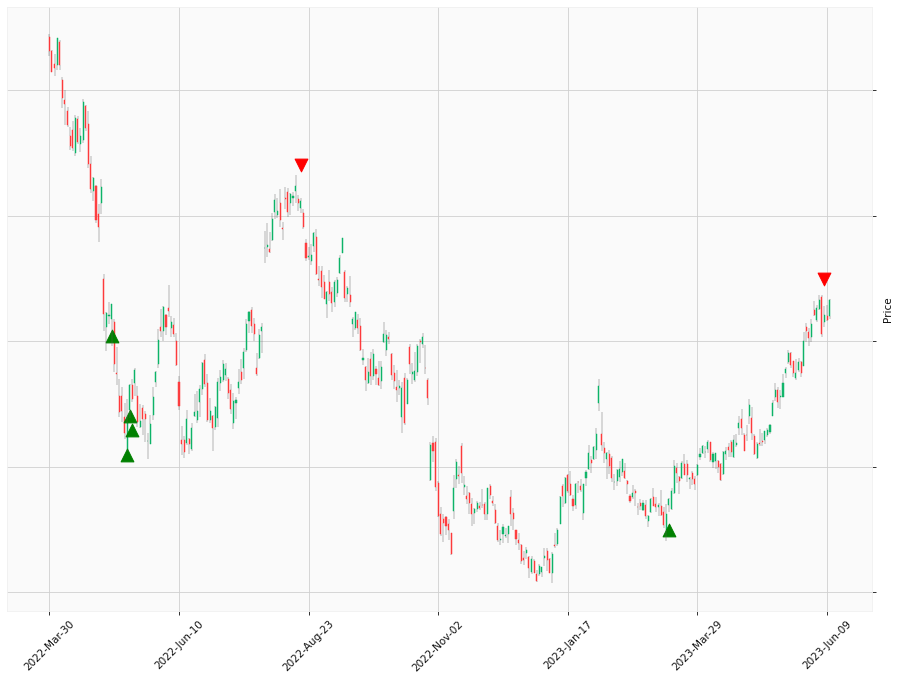
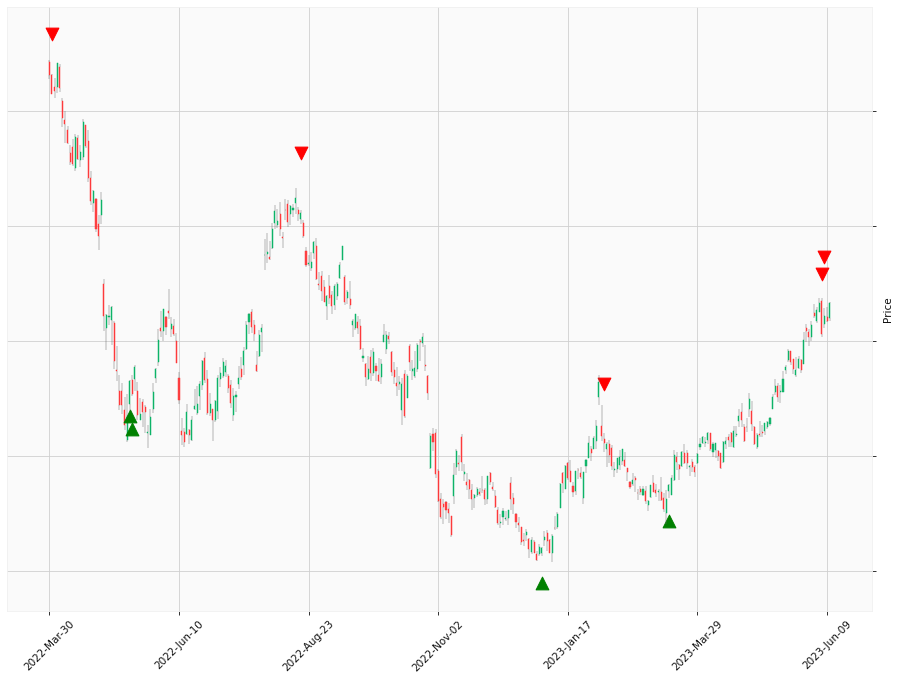
See https://github.com/HappyLabz/HappyLabz_v1/commit/b8bb6a6cd9d7d1d56d0d7939aae102c5873e2780 from refs/heads/main

diff --git a/AMZN.md b/AMZN.md
@@ -38,59 +38,75 @@
       </tr>
     <tr>
         <td>1</td>
-        <td>Long</td>
-        <td>May 04 2022 Close</td>
-        <td>-15.09 %</td>
-        <td>-15.09 %</td>
-        <td>-15.09 %</td>
+        <td>Short</td>
+        <td>Mar 31 2022 Close</td>
+        <td>-30.64 %</td>
+        <td>30.64 %</td>
+        <td>30.64 %</td>
     </tr>
     <tr>
         <td>2</td>
         <td>Long</td>
-        <td>May 12 2022 Close</td>
-        <td>5.73 %</td>
-        <td>-9.36 %</td>
-        <td>-10.22 %</td>
+        <td>May 13 2022 Close</td>
+        <td>-1.99 %</td>
+        <td>28.65 %</td>
+        <td>28.05 %</td>
     </tr>
     <tr>
         <td>3</td>
         <td>Long</td>
-        <td>May 13 2022 Close</td>
-        <td>-1.99 %</td>
-        <td>-11.34 %</td>
-        <td>-12.01 %</td>
+        <td>May 16 2022 Close</td>
+        <td>28.42 %</td>
+        <td>57.07 %</td>
+        <td>64.43 %</td>
     </tr>
     <tr>
         <td>4</td>
-        <td>Long</td>
-        <td>May 16 2022 Close</td>
-        <td>28.42 %</td>
-        <td>17.07 %</td>
-        <td>13.00 %</td>
+        <td>Short</td>
+        <td>Aug 18 2022 Close</td>
+        <td>-40.97 %</td>
+        <td>98.04 %</td>
+        <td>131.80 %</td>
     </tr>
     <tr>
         <td>5</td>
-        <td>Short</td>
-        <td>Aug 18 2022 Close</td>
-        <td>-33.32 %</td>
-        <td>50.40 %</td>
-        <td>50.66 %</td>
+        <td>Long</td>
+        <td>Dec 30 2022 Close</td>
+        <td>21.64 %</td>
+        <td>119.68 %</td>
+        <td>181.97 %</td>
     </tr>
     <tr>
         <td>6</td>
-        <td>Long</td>
-        <td>Mar 14 2023 Close</td>
-        <td>30.95 %</td>
-        <td>81.35 %</td>
-        <td>97.29 %</td>
+        <td>Short</td>
+        <td>Feb 06 2023 Close</td>
+        <td>-7.14 %</td>
+        <td>126.83 %</td>
+        <td>202.12 %</td>
     </tr>
     <tr>
         <td>7</td>
+        <td>Long</td>
+        <td>Mar 14 2023 Close</td>
+        <td>27.77 %</td>
+        <td>154.60 %</td>
+        <td>286.02 %</td>
+    </tr>
+    <tr>
+        <td>8</td>
+        <td>Short</td>
+        <td>Jun 07 2023 Close</td>
+        <td>2.49 %</td>
+        <td>152.11 %</td>
+        <td>276.40 %</td>
+    </tr>
+    <tr>
+        <td>9</td>
         <td>Short</td>
         <td>Jun 08 2023 Close</td>
         <td>1.87 %</td>
-        <td>79.48 %</td>
-        <td>93.61 %</td>
+        <td>150.24 %</td>
+        <td>269.37 %</td>
     </tr>
     
 </table>
@@ -106,23 +122,23 @@
     <tbody>
         <tr>
             <td>AMZN (Buy and Hold)</td>
-            <td>2022-05-04 Close <b>-</b> 2023-06-12 Close</td>
-            <td>0.51 %</td>
+            <td>2022-03-31 Close <b>-</b> 2023-06-12 Close</td>
+            <td>-22.35 %</td>
         </tr>
         <tr>
             <td>AMZN (HLT Cumulative % Gain)</td>
-            <td>2022-05-04 Close <b>-</b> 2023-06-12 Close</td>
-            <td>79.48 %</td>
+            <td>2022-03-31 Close <b>-</b> 2023-06-12 Close</td>
+            <td>150.24 %</td>
         </tr>
         <tr>
             <td>AMZN (HLT Reinvested % Gain)</td>
-            <td>2022-05-04 Close <b>-</b> 2023-06-12 Close</td>
-            <td>93.61 %</td>
+            <td>2022-03-31 Close <b>-</b> 2023-06-12 Close</td>
+            <td>269.37 %</td>
         </tr>
         <tr>
             <td>S&P 500 (Buy and Hold)</td>
-            <td>2022-05-04 Close <b>-</b> 2023-06-12 Close</td>
-            <td>1.10 %</td>
+            <td>2022-03-31 Close <b>-</b> 2023-06-12 Close</td>
+            <td>-3.95 %</td>
         </tr>
     </tbody>
 </table>

diff --git a/SPY.md b/SPY.md
@@ -80,64 +80,72 @@
         <td>6</td>
         <td>Long</td>
         <td>Oct 03 2022 Close</td>
-        <td>-0.17 %</td>
-        <td>44.51 %</td>
-        <td>51.03 %</td>
+        <td>3.10 %</td>
+        <td>47.78 %</td>
+        <td>55.98 %</td>
     </tr>
     <tr>
         <td>7</td>
         <td>Long</td>
-        <td>Oct 13 2022 Close</td>
-        <td>11.19 %</td>
-        <td>55.70 %</td>
-        <td>67.93 %</td>
+        <td>Oct 04 2022 Close</td>
+        <td>-3.17 %</td>
+        <td>44.61 %</td>
+        <td>51.03 %</td>
     </tr>
     <tr>
         <td>8</td>
-        <td>Short</td>
-        <td>Dec 02 2022 Close</td>
-        <td>-5.08 %</td>
-        <td>60.78 %</td>
-        <td>76.46 %</td>
+        <td>Long</td>
+        <td>Oct 13 2022 Close</td>
+        <td>11.19 %</td>
+        <td>55.80 %</td>
+        <td>67.93 %</td>
     </tr>
     <tr>
         <td>9</td>
-        <td>Long</td>
-        <td>Dec 21 2022 Close</td>
-        <td>-0.72 %</td>
-        <td>60.06 %</td>
-        <td>75.19 %</td>
+        <td>Short</td>
+        <td>Dec 02 2022 Close</td>
+        <td>-5.08 %</td>
+        <td>60.88 %</td>
+        <td>76.46 %</td>
     </tr>
     <tr>
         <td>10</td>
         <td>Long</td>
-        <td>Dec 29 2022 Close</td>
-        <td>7.54 %</td>
-        <td>67.60 %</td>
-        <td>88.39 %</td>
+        <td>Dec 21 2022 Close</td>
+        <td>-0.72 %</td>
+        <td>60.16 %</td>
+        <td>75.19 %</td>
     </tr>
     <tr>
         <td>11</td>
-        <td>Short</td>
-        <td>Feb 03 2023 Close</td>
-        <td>-0.41 %</td>
-        <td>68.01 %</td>
-        <td>89.17 %</td>
+        <td>Long</td>
+        <td>Dec 29 2022 Close</td>
+        <td>7.54 %</td>
+        <td>67.69 %</td>
+        <td>88.39 %</td>
     </tr>
     <tr>
         <td>12</td>
         <td>Short</td>
-        <td>Feb 08 2023 Close</td>
-        <td>-4.61 %</td>
-        <td>72.62 %</td>
-        <td>97.89 %</td>
+        <td>Feb 03 2023 Close</td>
+        <td>-0.41 %</td>
+        <td>68.11 %</td>
+        <td>89.17 %</td>
     </tr>
     <tr>
         <td>13</td>
+        <td>Short</td>
+        <td>Feb 08 2023 Close</td>
+        <td>-4.61 %</td>
+        <td>72.71 %</td>
+        <td>97.89 %</td>
+    </tr>
+    <tr>
+        <td>14</td>
         <td>Long</td>
         <td>Mar 14 2023 Close</td>
         <td>10.74 %</td>
-        <td>83.36 %</td>
+        <td>83.45 %</td>
         <td>119.14 %</td>
     </tr>
     
@@ -160,7 +168,7 @@
         <tr>
             <td>SPY (HLT Cumulative % Gain)</td>
             <td>2022-03-31 Close <b>-</b> 2023-06-12 Close</td>
-            <td>83.36 %</td>
+            <td>83.45 %</td>
         </tr>
         <tr>
             <td>SPY (HLT Reinvested % Gain)</td>

diff --git a/MSFT.md b/MSFT.md
@@ -48,41 +48,41 @@
         <td>2</td>
         <td>Short</td>
         <td>Mar 31 2022 Close</td>
-        <td>-16.29 %</td>
-        <td>18.06 %</td>
-        <td>18.35 %</td>
+        <td>-16.15 %</td>
+        <td>17.92 %</td>
+        <td>18.20 %</td>
     </tr>
     <tr>
         <td>3</td>
         <td>Long</td>
-        <td>Sep 07 2022 Close</td>
-        <td>0.17 %</td>
-        <td>18.22 %</td>
-        <td>18.54 %</td>
+        <td>Sep 08 2022 Close</td>
+        <td>2.30 %</td>
+        <td>20.22 %</td>
+        <td>20.92 %</td>
     </tr>
     <tr>
         <td>4</td>
         <td>Long</td>
-        <td>Sep 08 2022 Close</td>
-        <td>-1.25 %</td>
-        <td>16.97 %</td>
-        <td>17.06 %</td>
+        <td>Sep 09 2022 Close</td>
+        <td>-3.47 %</td>
+        <td>16.75 %</td>
+        <td>16.73 %</td>
     </tr>
     <tr>
         <td>5</td>
         <td>Long</td>
         <td>Mar 03 2023 Close</td>
         <td>26.67 %</td>
-        <td>43.65 %</td>
-        <td>48.28 %</td>
+        <td>43.42 %</td>
+        <td>47.86 %</td>
     </tr>
     <tr>
         <td>6</td>
         <td>Short</td>
         <td>Jun 07 2023 Close</td>
         <td>2.62 %</td>
-        <td>41.03 %</td>
-        <td>44.40 %</td>
+        <td>40.80 %</td>
+        <td>43.99 %</td>
     </tr>
     
 </table>
@@ -104,12 +104,12 @@
         <tr>
             <td>MSFT (HLT Cumulative % Gain)</td>
             <td>2022-03-30 Close <b>-</b> 2023-06-12 Close</td>
-            <td>41.03 %</td>
+            <td>40.80 %</td>
         </tr>
         <tr>
             <td>MSFT (HLT Reinvested % Gain)</td>
             <td>2022-03-30 Close <b>-</b> 2023-06-12 Close</td>
-            <td>44.40 %</td>
+            <td>43.99 %</td>
         </tr>
         <tr>
             <td>S&P 500 (Buy and Hold)</td>

diff --git a/index.md b/index.md
@@ -95,7 +95,7 @@
             <li>DELTA: <b><span style="color: #167816;">37.88 (25.96%)</span></b> as of close<br>Jun 12 2023</li>
         </ul>
     </div>
-    <div class="box gray atLowerPriceLine" onclick="location.href='{% link navigation/blocked.md %}';">
+    <div class="box gray" onclick="location.href='{% link navigation/blocked.md %}';">
         <h2 id="amzn"><a href="{% link navigation/blocked.md %}">AMZN</a></h2>
         <ul>
             <li>LAST: <b><span style="color: #b91c1c;">Short</span></b> Jun 08 2023 15:00 PST</li>
